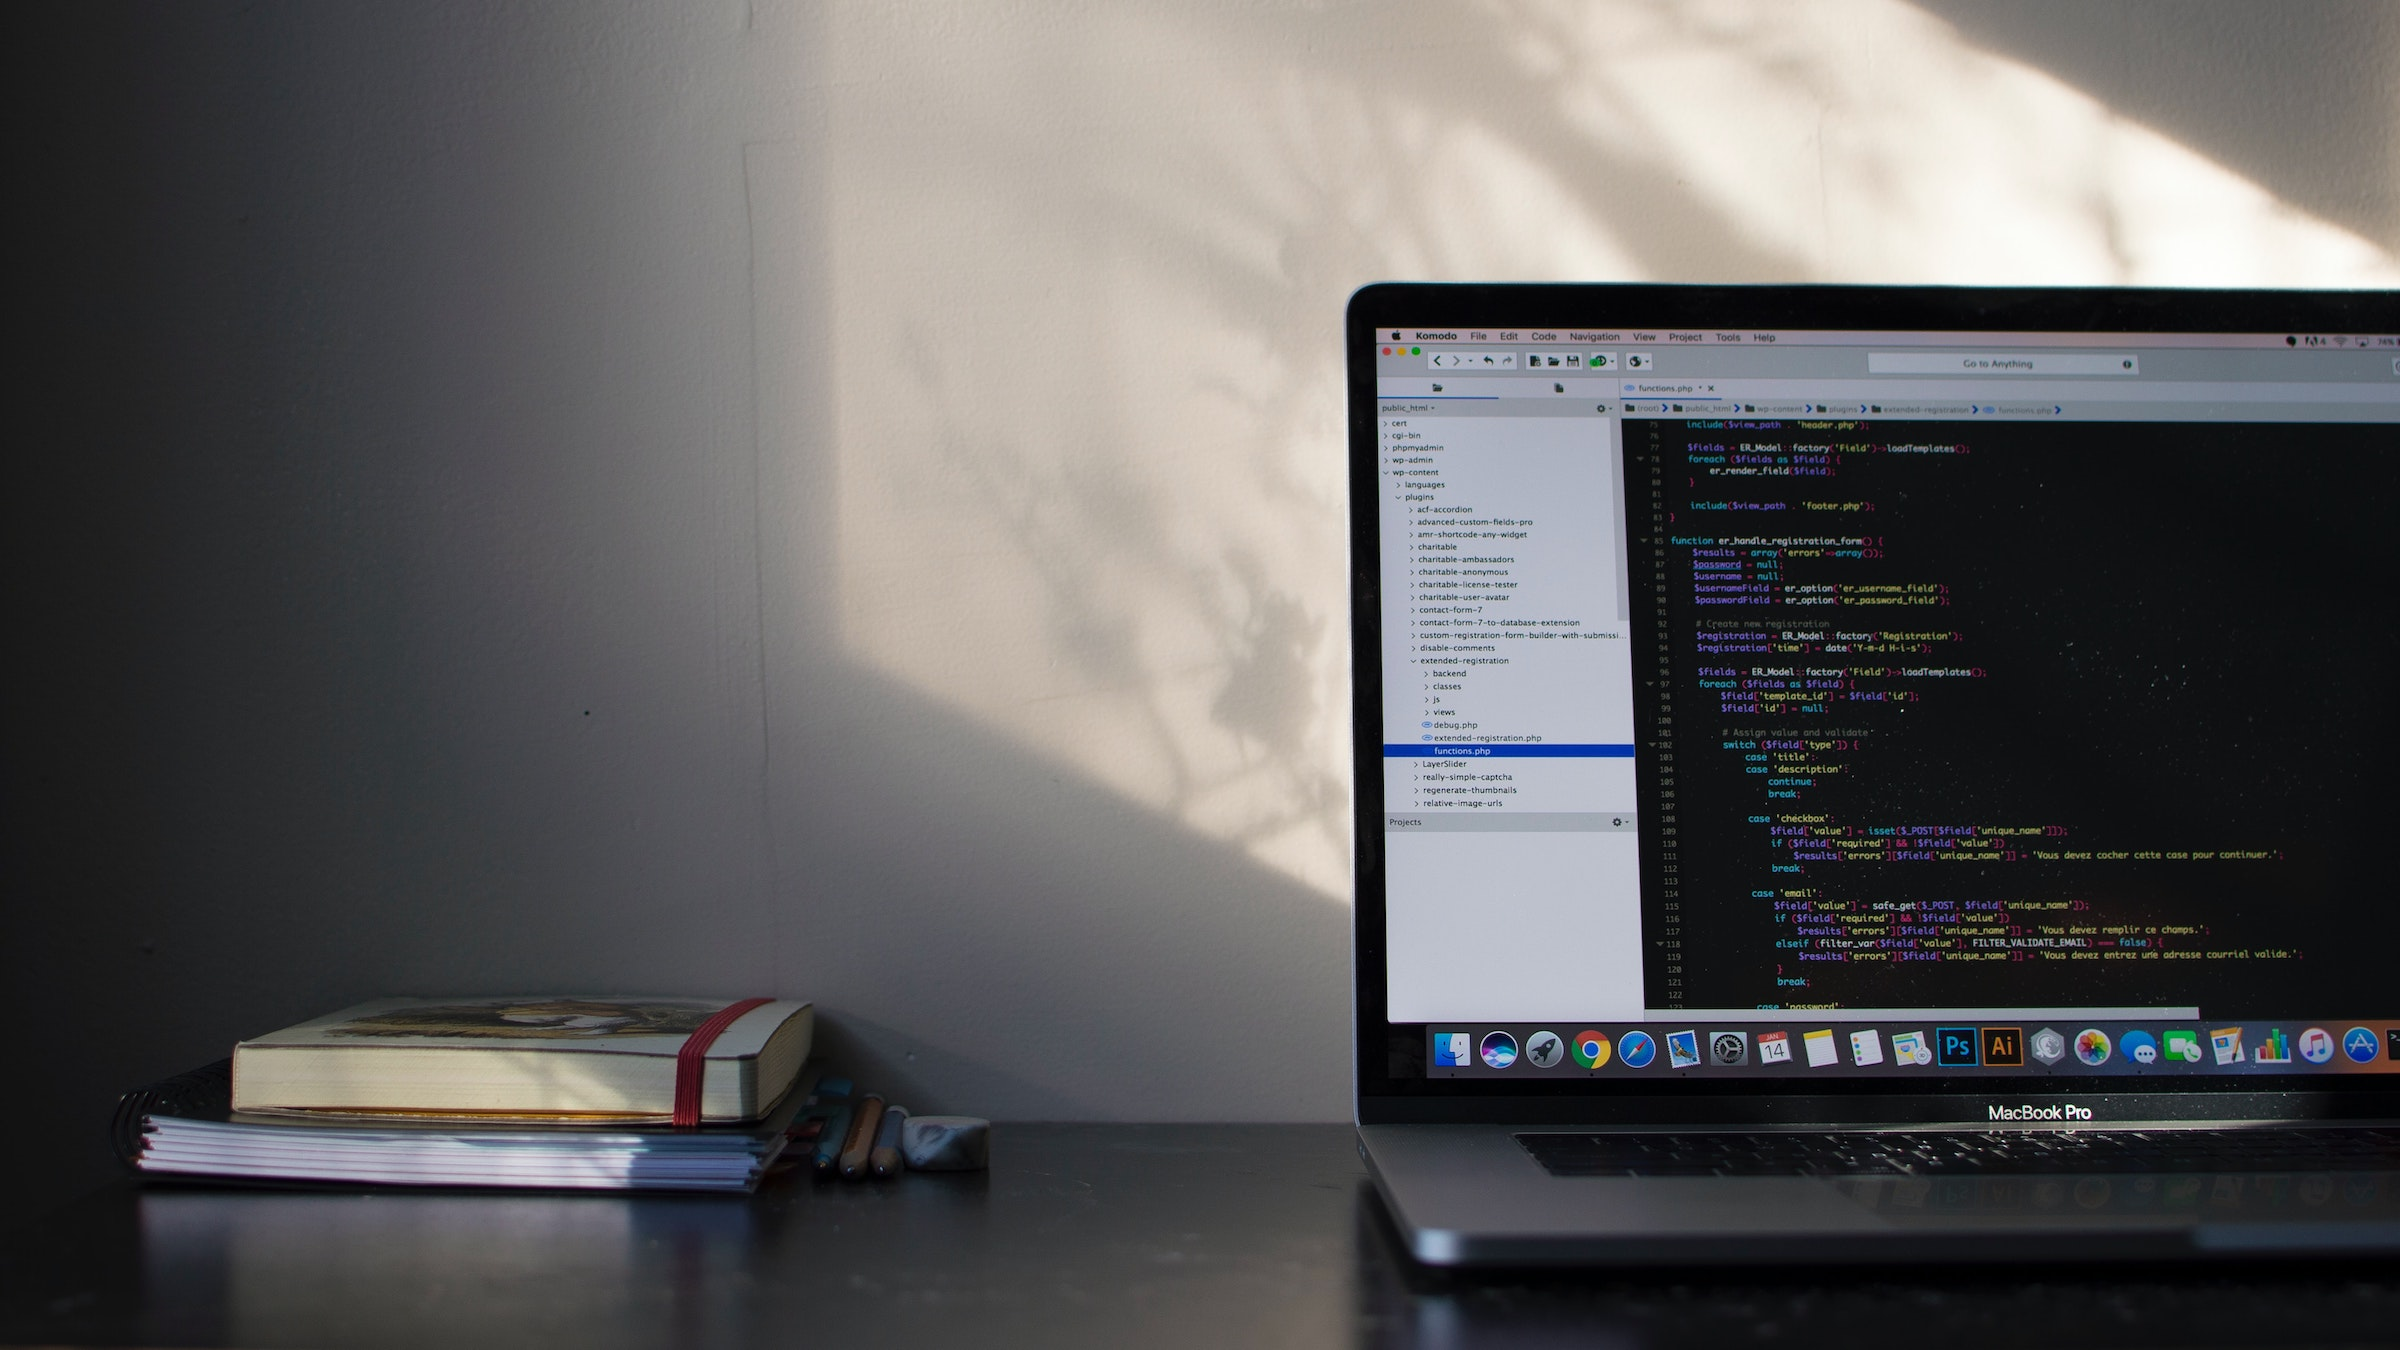
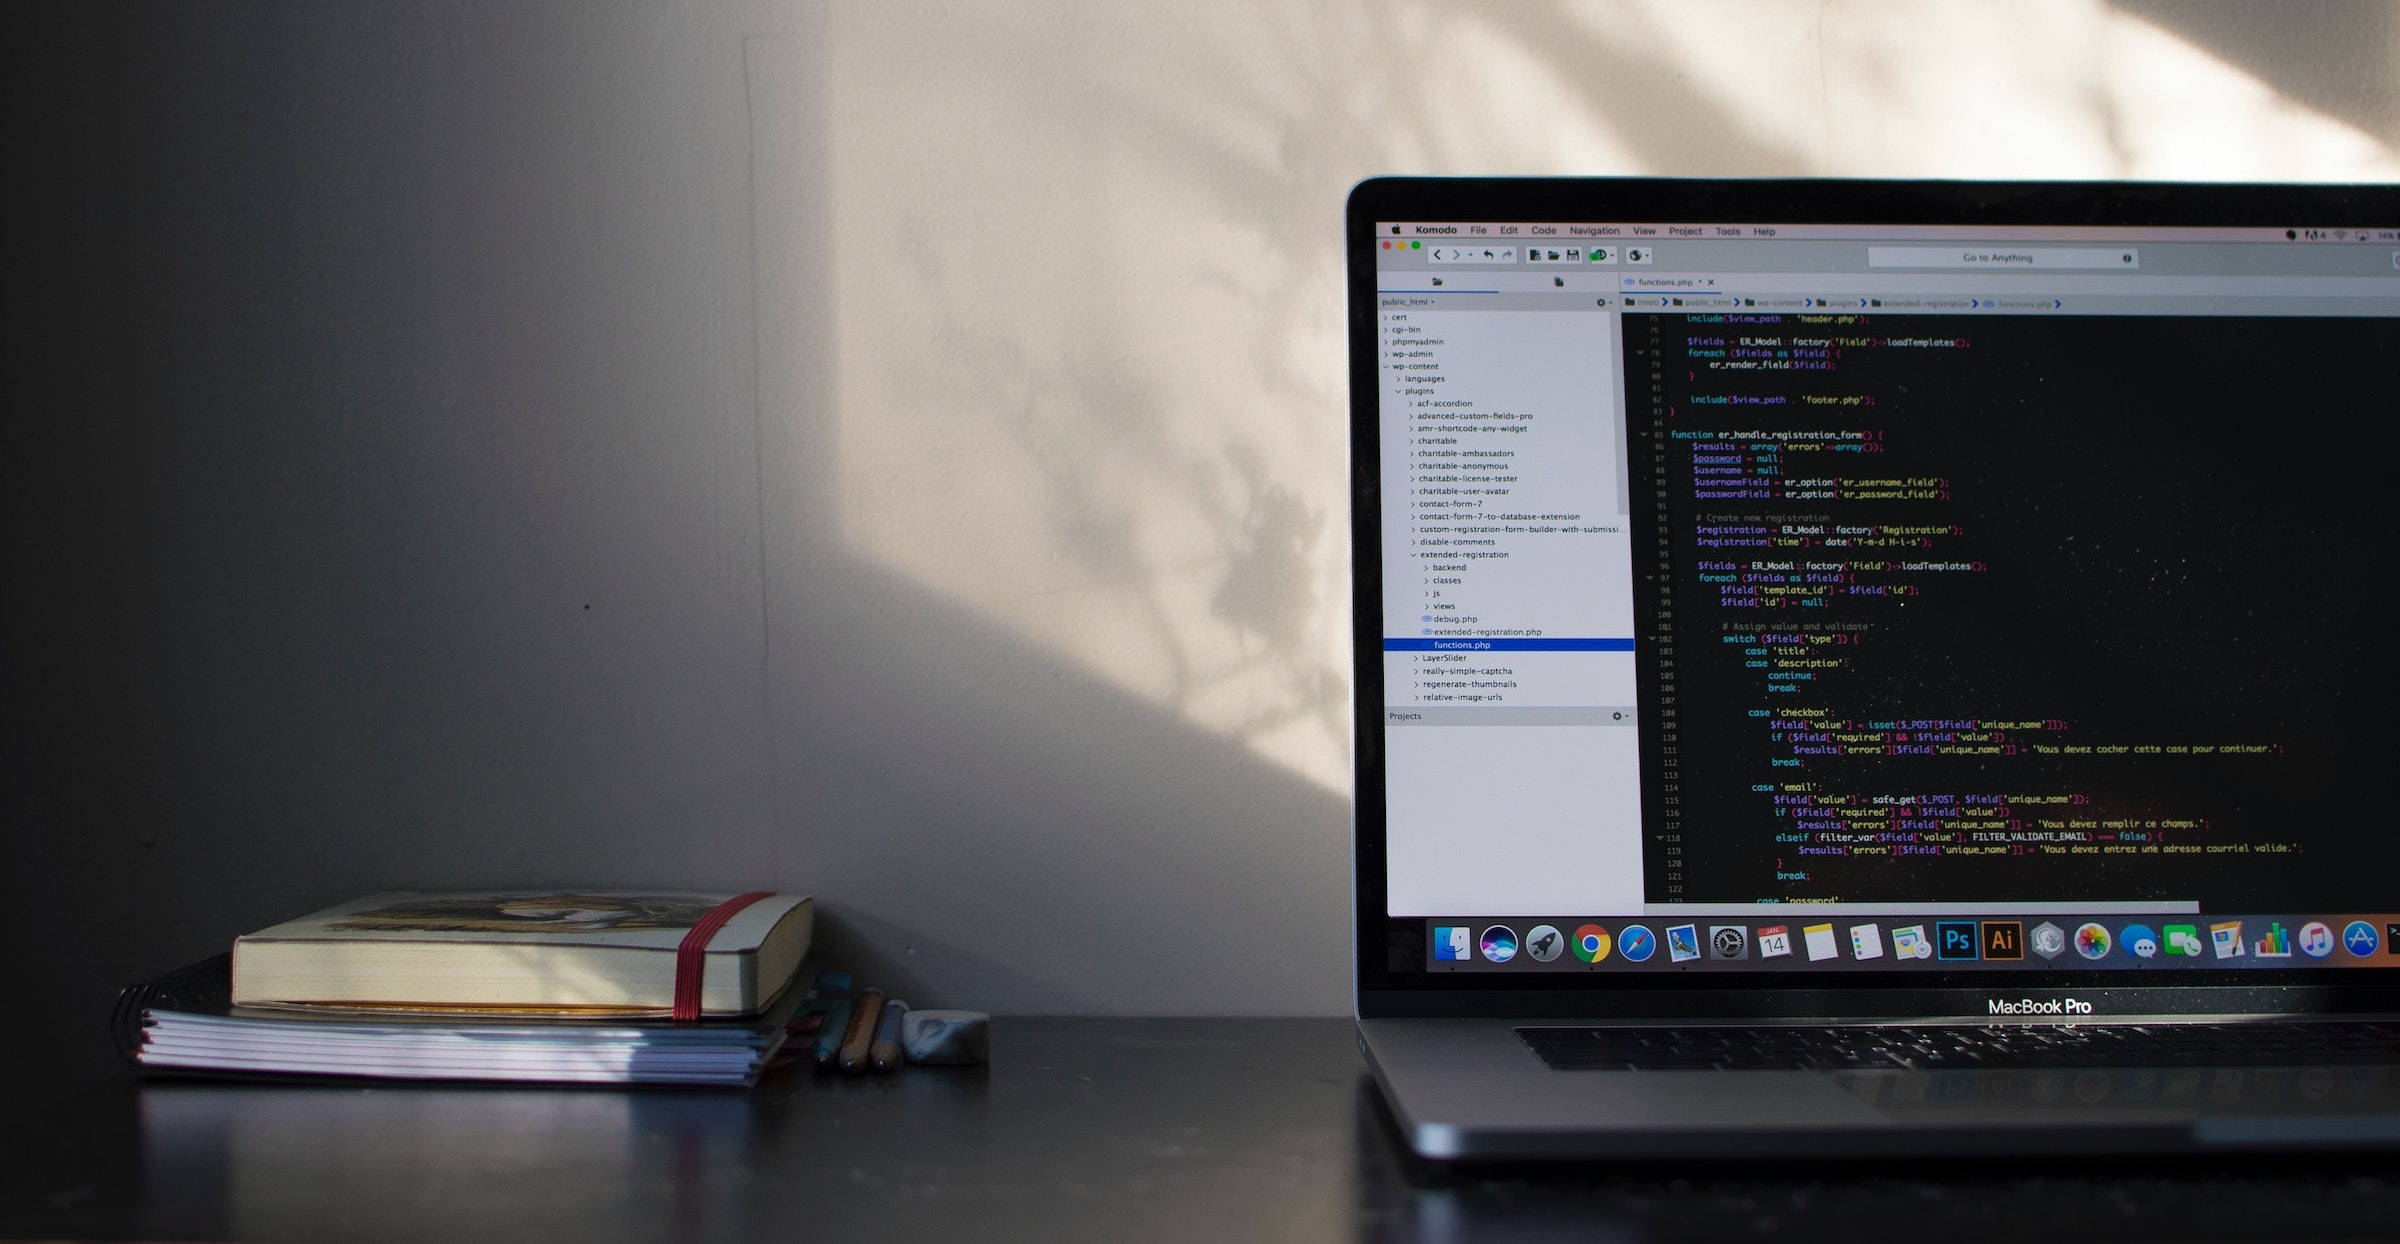
setting up about me section, added a cropped intro background photo so the laptop shows when using background cover

Changed region(s): [[0.0312, 0.0, 1.0, 0.9469], [0.9062, 0.9164, 1.0, 0.9469]]

diff --git a/src/components/sections/Intro.js b/src/components/sections/Intro.js
@@ -1,0 +1,78 @@
+import React from "react";
+import laptopDeskImg from "../../img/desk-laptop-bg.jpg";
+import laptopDeskMobileImg from "../../img/desk-laptop-bg-mobile.jpg";
+
+// Material-UI Stuff
+import { withStyles } from "@material-ui/core/styles";
+import Grid from "@material-ui/core/Grid";
+import Typography from "@material-ui/core/Typography";
+
+const commonStyles = { introTextShadow: "#90a4ae 1px 0 10px" };
+
+const styles = (theme) => ({
+  sectionContainer: {
+    backgroundImage: `linear-gradient(to bottom,rgba(144, 164, 174, 0.85), rgba(144, 164, 174, 0.85)),url(${laptopDeskMobileImg})`,
+    backgroundSize: "cover",
+    paddingTop: 100,
+    [theme.breakpoints.up("sm")]: {
+      paddingTop: 120,
+      borderRadius: "0 0 50% 50%/4%",
+      backgroundImage: `linear-gradient(to bottom,rgba(144, 164, 174, 0.8), rgba(144, 164, 174, 0.8)),url(${laptopDeskImg})`,
+    },
+  },
+  myNameIs: {
+    textShadow: commonStyles.introTextShadow,
+  },
+  jaimeLovera: {
+    fontFamily: '"Nunito", sans-serif',
+    fontWeight: 800,
+    textShadow: commonStyles.introTextShadow,
+  },
+  shortInfo: {
+    fontFamily: '"Nunito", sans-serif',
+    fontWeight: 400,
+    textShadow: commonStyles.introTextShadow,
+  },
+  longInfo: {
+    maxWidth: 500,
+    padding: "20px 0 140px 0",
+    textShadow: commonStyles.introTextShadow,
+  },
+});
+
+function Intro(props) {
+  const { classes } = props;
+
+  return (
+    <div className={`section-container ${classes.sectionContainer}`}>
+      <div className="content-container">
+        <Grid
+          container
+          direction="column"
+          justify="center"
+          alignItems="flex-start"
+        >
+          <Grid item>
+            <Typography variant="body1" className={classes.myNameIs}>
+              Hi, my name is
+            </Typography>
+            <Typography variant="h1" className={classes.jaimeLovera}>
+              Jaime Lovera.
+            </Typography>
+            <Typography variant="h2" className={classes.shortInfo}>
+              I build things for the web.
+            </Typography>
+            <Typography variant="body1" className={classes.longInfo}>
+              Nisl altera incorrupte per at, no per exerci nusquam iracundia, cu
+              pro lobortis ocurreret. Pri at cetero suscipit. Per at denique
+              ancillae argumentum, ei sint inermis omittantur vix. Latine
+              qualisque erroribus ut cum.
+            </Typography>
+          </Grid>
+        </Grid>
+      </div>
+    </div>
+  );
+}
+
+export default withStyles(styles)(Intro);

diff --git a/src/components/sections/About.js b/src/components/sections/About.js
@@ -1,0 +1,71 @@
+import React, { Fragment } from "react";
+import profileImg from "../../img/profile-photo.jpg";
+
+// Material-UI Stuff
+import { withStyles } from "@material-ui/core/styles";
+import Grid from "@material-ui/core/Grid";
+import Typography from "@material-ui/core/Typography";
+
+const styles = (theme) => ({
+  sectionContainer: {
+    paddingTop: 80,
+  },
+  profileImg: {
+    width: "70%",
+    height: "auto",
+    borderRadius: 12,
+    border: `2px solid ${theme.palette.primary.main}`,
+  },
+});
+
+function About(props) {
+  const { classes } = props;
+
+  const aboutMarkup = (
+    <Fragment>
+      <Typography variant="h4">About Me</Typography>
+      <hr />
+      <Typography variant="body1">Hello I am jaime.</Typography>
+      <hr />
+    </Fragment>
+  );
+
+  const technologiesMarkUp = (
+    <Fragment>
+      <Typography variant="body1">
+        I have been using these technologies:
+      </Typography>
+    </Fragment>
+  );
+
+  const photoMarkup = (
+    <img src={profileImg} alt="Profile" className={classes.profileImg} />
+  );
+
+  return (
+    <div className={`section-container ${classes.sectionContainer}`}>
+      <div className="content-container">
+        <Grid container alignItems="center">
+          <Grid item xs={12} sm={6}>
+            <Grid container direction="column">
+              <Grid item>{aboutMarkup}</Grid>
+              <Grid item>{technologiesMarkUp}</Grid>
+            </Grid>
+          </Grid>
+          <Grid item xs={12} sm={6}>
+            <Grid
+              container
+              direction="column"
+              justify="center"
+              alignItems="center"
+            >
+              {photoMarkup}
+            </Grid>
+          </Grid>
+        </Grid>
+      </div>
+    </div>
+  );
+}
+
+export default withStyles(styles)(About);

diff --git a/src/App.js b/src/App.js
@@ -3,11 +3,12 @@ import themeFile from "./util/theme";
 import "./App.css";
 
 // Components
-import Navbar from "./components/Navbar/Navbar";
-import Intro from "./components/sections/Intro/Intro";
-import About from "./components/sections/About/About";
-import Projects from "./components/sections/Projects/Projects";
-import Contact from "./components/sections/Contact/Contact";
+import Navbar from "./components/layout/Navbar";
+import Intro from "./components/sections/Intro";
+import About from "./components/sections/About";
+import Projects from "./components/sections/Projects";
+import Contact from "./components/sections/Contact";
+import Footer from "./components/sections/Footer";
 
 // Material-UI Stuff
 import {
@@ -28,6 +29,7 @@ function App() {
         ["about", <About />],
         ["projects", <Projects />],
         ["contact", <Contact />],
+        ["footer", <Footer />],
       ].map((item) => (
         <div id={item[0]}>{item[1]}</div>
       ))}

diff --git a/src/components/sections/Projects.js b/src/components/sections/Projects.js
@@ -1,0 +1,26 @@
+import React from "react";
+
+// Material-UI Stuff
+import { withStyles } from "@material-ui/core/styles";
+import Grid from "@material-ui/core/Grid";
+import Typography from "@material-ui/core/Typography";
+
+const styles = (theme) => ({
+  sectionContainer: {
+    paddingTop: 50,
+  },
+});
+
+function Projects(props) {
+  const { classes } = props;
+
+  return (
+    <div className={`section-container ${classes.sectionContainer}`}>
+      <div className="content-container">
+        <h1>Hello from Projects</h1>
+      </div>
+    </div>
+  );
+}
+
+export default withStyles(styles)(Projects);

diff --git a/src/components/sections/Contact.js b/src/components/sections/Contact.js
@@ -1,0 +1,26 @@
+import React from "react";
+
+// Material-UI Stuff
+import { withStyles } from "@material-ui/core/styles";
+import Grid from "@material-ui/core/Grid";
+import Typography from "@material-ui/core/Typography";
+
+const styles = (theme) => ({
+  sectionContainer: {
+    paddingTop: 50,
+  },
+});
+
+function Contact(props) {
+  const { classes } = props;
+
+  return (
+    <div className={`section-container ${classes.sectionContainer}`}>
+      <div className="content-container">
+        <h1>Hello from Contact</h1>
+      </div>
+    </div>
+  );
+}
+
+export default withStyles(styles)(Contact);

diff --git a/src/components/sections/Footer.js b/src/components/sections/Footer.js
@@ -1,0 +1,26 @@
+import React from "react";
+
+// Material-UI Stuff
+import { withStyles } from "@material-ui/core/styles";
+import Grid from "@material-ui/core/Grid";
+import Typography from "@material-ui/core/Typography";
+
+const styles = (theme) => ({
+  sectionContainer: {
+    paddingTop: 50,
+  },
+});
+
+function Footer(props) {
+  const { classes } = props;
+
+  return (
+    <div className={`section-container ${classes.sectionContainer}`}>
+      <div className="content-container">
+        <h1>Hello from Footer</h1>
+      </div>
+    </div>
+  );
+}
+
+export default withStyles(styles)(Footer);

diff --git a/src/App.css b/src/App.css
@@ -5,7 +5,6 @@ body {
   font-family: -apple-system, BlinkMacSystemFont, "Segoe UI", "Roboto", "Oxygen",
     "Ubuntu", "Cantarell", "Fira Sans", "Droid Sans", "Helvetica Neue",
     sans-serif;
-  height: 100%;
   margin: 0;
 }
 
@@ -14,11 +13,10 @@ a {
 }
 
 .section-container {
-  padding: 56px 4px 0 4px;
+  padding: 64px 10px 0 10px;
 }
 
 .content-container {
   margin: 0 auto 0 auto;
-  padding: 10px 8px 0 8px;
   max-width: 1000px;
 }

diff --git a/public/index.html b/public/index.html
@@ -16,10 +16,6 @@
 
     <!-- Fonts -->
     <link
-      href="https://fonts.googleapis.com/css2?family=Quicksand&display=swap"
-      rel="stylesheet"
-    />
-    <link
       href="https://fonts.googleapis.com/css2?family=Nunito:wght@400;800&display=swap"
       rel="stylesheet"
     />
